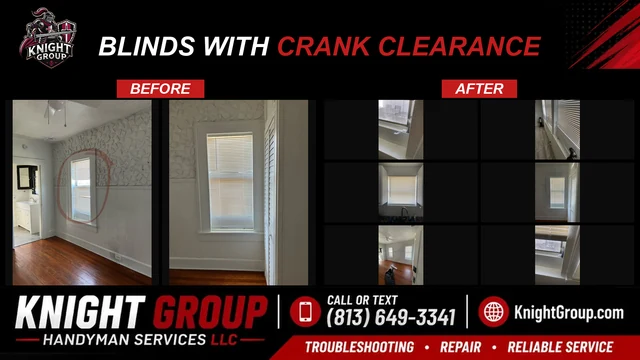
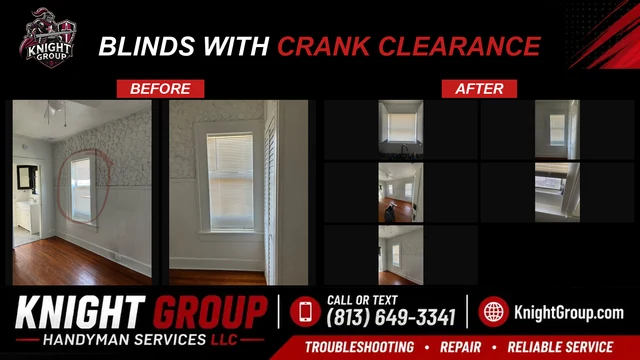
Add gallery before/after: before-after-blinds-with-crank-clearance-fb91d1d

Changed region(s): [[0.8125, 0.275, 0.9062, 0.7944], [0.5938, 0.275, 0.6875, 0.7944]]

diff --git a/gallery/blinds-with-crank-clearance-fb91d1d-before-after.html b/gallery/blinds-with-crank-clearance-fb91d1d-before-after.html
@@ -487,7 +487,7 @@
                             
                             <div class="kg-gallery-facts" hidden data-worker="Vince Knight" data-worker-key="vince" data-city="St. Petersburg" data-county="Pinellas County" data-month="October 2026"></div><aside class="kg-gallery-attribution" aria-label="Field technician"><span class="kg-gallery-attribution__label">Completed by</span><strong class="kg-gallery-attribution__name">Vince Knight</strong><span class="kg-gallery-attribution__role">co-owner and Field Operations Lead</span></aside><p>Pinellas rentals and owner-occupied homes chew through blinds at the same failure points: bent headrails, failed tilters, and brackets that pulled from drywall. This blinds with crank clearance job in St. Petersburg, Pinellas County put a covering back on the opening.</p>
 <p>The on-site work was completed by Vince Knight, co-owner and Field Operations Lead in October 2026.</p>
-<p>The branded composite on this page was built from 2 before shots, 7 after shots uploaded on the ticket — not stock photography.</p>
+<p>The branded composite on this page was built from 2 before shots, 5 after shots uploaded on the ticket — not stock photography.</p>
 <div class="kg-gallery-project-images"><figure><img src="/GalleryImages/before-after-blinds-with-crank-clearance-fb91d1d.webp" alt="blinds with crank clearance before and after — handyman project photo in Pinellas County FL by Knight Group" loading="lazy" width="800" height="600"></figure></div><h2 id="blinds-with-crank-clearance-fb91d1d-before-after-detail-heading">How this visit was performed</h2><p>Vince Knight described the completed work in the job record as follows. Customer address, phone, and job price are omitted from this public page.</p><blockquote><p>Room 5 blinds with crank clearance: Replaced 7 window cranks with collapsible cranks to clear blinds. And moved blinds out where they were getting hung. In total installed 6 blinds. Left old cranks in closet; Clean Both A/C Mini-Splits: Quick wipe down and clean filters Room 5 blinds with crank clearance: Replaced 7 window cranks with collapsible cranks to clear blinds. And moved blinds out where they were…</p></blockquote>
 <h2>How the window blind repair was handled</h2>
 <p>St. Petersburg, Pinellas County does not have a gentle off-season for building materials. That is why this window blind repair job is described in Florida terms, not Midwest terms.</p>
